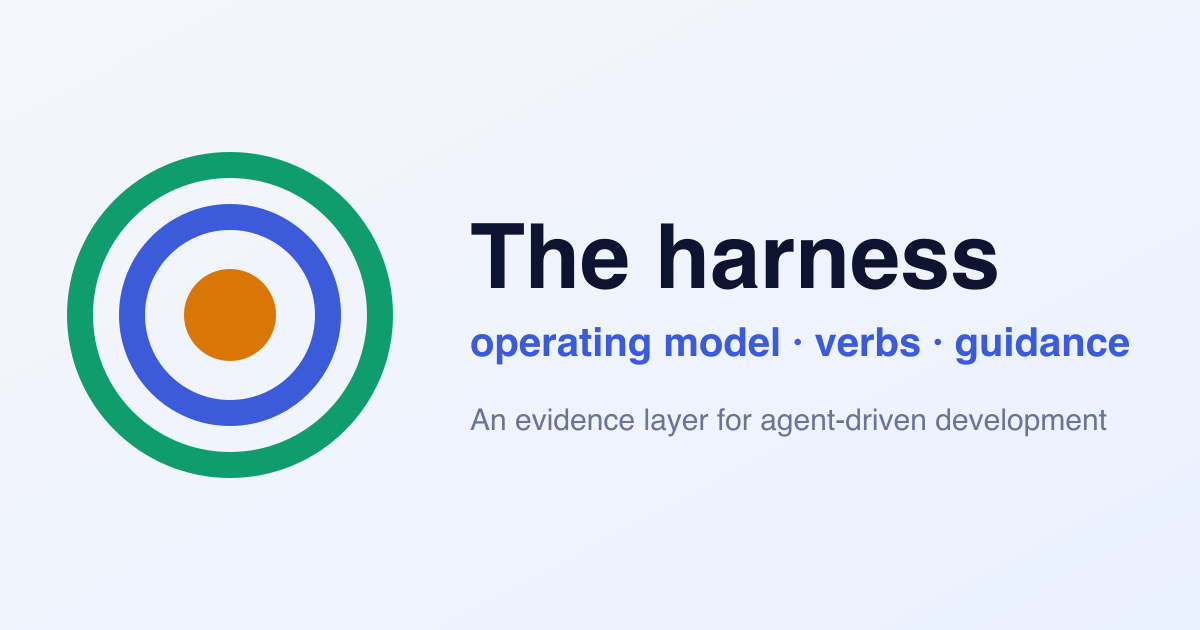
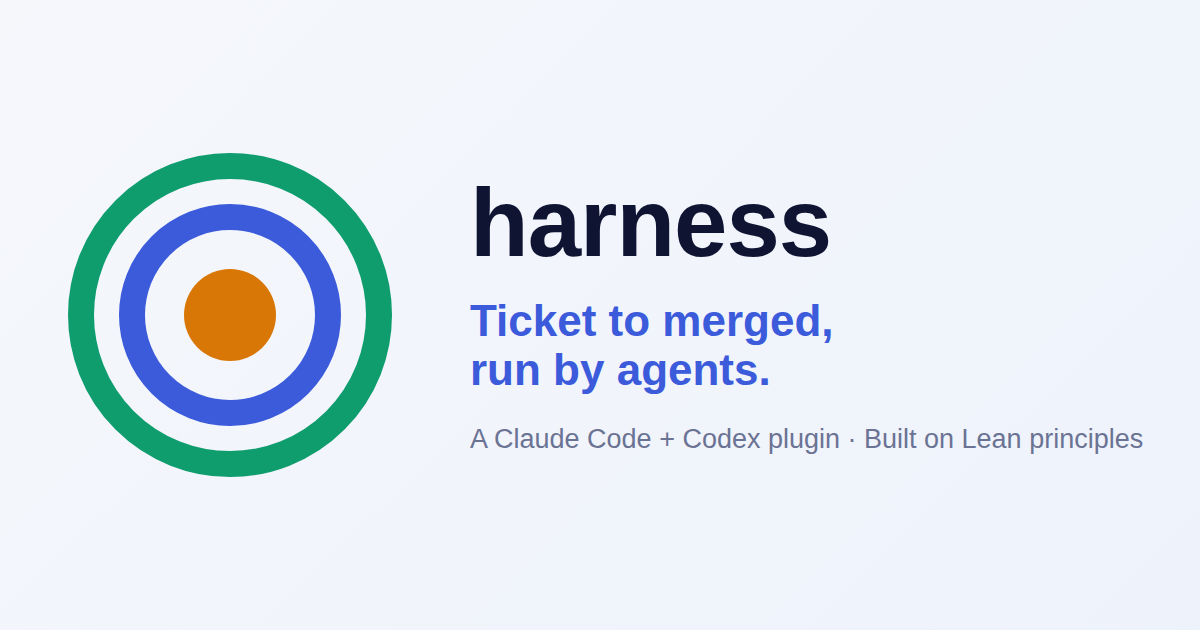
docs(page): align the landing page and manifests with the delivery loop
The page leads with the loop (spec and build, independent review, gated
merge) and the spine that governs it, labels where each host's install
commands run, and describes hydration as it now behaves. The social card,
both plugin manifests, the marketplace entry, pyproject and CONTRIBUTING
drop the retired evidence-layer framing for the same description as the
GitHub About. The README install section says the same about hosts.

Claude-Session: https://claude.ai/code/session_01BFqq6DT9QtGyutTCXrsEoj

diff --git a/docs/index.html b/docs/index.html
@@ -3,18 +3,18 @@
 <head>
 <meta charset="utf-8" />
 <meta name="viewport" content="width=device-width, initial-scale=1" />
-<title>harness — a spec-driven development process, shipped as native plugins for Claude Code and Codex</title>
-<meta name="description" content="harness: a spec-driven development process for agent-driven repos, shipped as native plugins for Claude Code and Codex. Lifecycle workflows, skill packages, agent roles, and the guards that keep a build honest." />
+<title>harness — ticket to merged, run by agents</title>
+<meta name="description" content="A Claude Code and Codex plugin that runs your repo&#39;s delivery loop with agents: ticket to spec, test-first build, independent review, gated merge — on demand or unattended. Built on Lean principles." />
 <link rel="icon" type="image/png" sizes="32x32" href="favicon.png" />
 <link rel="apple-touch-icon" href="apple-touch-icon.png" />
 <meta property="og:type" content="website" />
 <meta property="og:url" content="https://sluengen.github.io/harness/" />
-<meta property="og:title" content="harness — native plugins for Claude Code and Codex" />
-<meta property="og:description" content="Let the agent do the judgement work; make the repo own the evidence. Lifecycle workflows, portable skills, agent roles, and hooks that refuse." />
+<meta property="og:title" content="harness — ticket to merged, run by agents" />
+<meta property="og:description" content="A Claude Code and Codex plugin that runs your repo&#39;s delivery loop with agents. Built on Lean principles." />
 <meta property="og:image" content="https://sluengen.github.io/harness/og-card.png" />
 <meta name="twitter:card" content="summary_large_image" />
-<meta name="twitter:title" content="harness — native plugins for Claude Code and Codex" />
-<meta name="twitter:description" content="Let the agent do the judgement work; make the repo own the evidence. Lifecycle workflows, portable skills, agent roles, and hooks that refuse." />
+<meta name="twitter:title" content="harness — ticket to merged, run by agents" />
+<meta name="twitter:description" content="A Claude Code and Codex plugin that runs your repo&#39;s delivery loop with agents. Built on Lean principles." />
 <meta name="twitter:image" content="https://sluengen.github.io/harness/og-card.png" />
 <style>
   :root{
@@ -98,7 +98,7 @@
     background:var(--product); color:#fff; font-weight:800; font-size:14px; margin-bottom:12px}
   .step h3{margin:0 0 8px; font-size:16px; letter-spacing:-.01em}
   .step pre{margin:0 0 10px; overflow-x:auto; background:#f2f3fa; border:1px solid var(--line);
-    border-radius:10px; padding:10px 12px}
+    border-radius:10px; padding:10px 12px; white-space:pre-wrap; overflow-wrap:anywhere}
   .step code, .step pre{font:600 12.5px/1.7 ui-monospace,SFMono-Regular,Menlo,Consolas,monospace; color:var(--ink)}
   .step p{margin:0; font-size:13.5px; color:var(--ink-2)}
 
@@ -174,15 +174,14 @@
 
   <!-- ============ HERO ============ -->
   <header class="hero">
-    <p class="eyebrow">Claude Code + Codex</p>
-    <h1>A spec-driven development process<br /><span class="accent">for agent-driven repos.</span></h1>
+    <p class="eyebrow">A plugin for Claude Code + Codex</p>
+    <h1>Ticket to merged,<br /><span class="accent">run by agents.</span></h1>
     <p class="thesis">
-      <b>harness</b> is a development process shipped as native plugins for Claude Code and Codex:
-      lifecycle workflows, portable skills, agent roles, and enforcement hooks that make a
-      green gate the only path to a shared branch. Install it, initialize the repo, and the repo owns
-      its own contract from then on.
+      <b>harness</b> runs a repo's delivery loop with agents: ticket to spec, test-first build,
+      independent review, gated merge — on demand or unattended. Install the plugin, hydrate the
+      repo, and every agent session in it works the same process.
     </p>
-    <p class="creed">Let the agent do the judgement work; make the repo own the evidence.</p>
+    <p class="creed">Built on Lean principles: do less, build quality in, reduce waste, flow, stop the line, improve continuously.</p>
     <ul class="counts">
       <li><b>9</b> workflows</li>
       <li><b>17</b> skills</li>
@@ -192,37 +191,80 @@
     </ul>
   </header>
 
-  <!-- ============ WHAT THE REPO OWNS ============ -->
-  <section class="section" id="owns">
-    <h2>What the harness owns</h2>
+  <!-- ============ WHAT IT DOES ============ -->
+  <section class="section" id="loop">
+    <h2>What it does</h2>
     <p class="lede">
-      An AI agent does everything that needs judgement — the design, the code, the fixes, the answer to a
-      review finding. The harness owns only the parts that must not depend on an agent remembering them.
+      The agent does the judgement work — the design, the code, the answer to a review finding. The
+      plugin gives that work one loop, and every stage ends on a pass/fail signal the agent can act on.
     </p>
     <div class="grid3">
-      <article class="card card--build">
-        <h3>One verification gate</h3>
-        <p>
-          The repo's verify command decides green, and the builder who ran it and read its output is
-          what carries the claim. Green over those exact bytes is the only evidence a completion claim
-          may cite; one more edit invalidates it.
-        </p>
-      </article>
       <article class="card card--product">
-        <h3>The spine</h3>
+        <h3>Spec, then build</h3>
         <p>
-          A repo-owned <code>AGENTS.md</code> carries the five principles, the laws derived from
-          them, and the lifecycle contract — always loaded, never optional. <code>CLAUDE.md</code>
-          imports it on its first line and adds that host's deltas, seeded once by
-          <code>/harness:hydrate</code> and repo-owned after — and the repo's configuration is
-          <code>harness.yaml</code>. Skills carry the depth and load by task.
+          <code>/capture</code> files a decided change as a ticket with its change spec and acceptance
+          criteria; <code>/propose</code> works an undecided one to a decision first. <code>/build</code>
+          takes the ticket onto its own branch in its own worktree, locks the tests, and builds against
+          them test-first.
         </p>
       </article>
       <article class="card card--strategy">
-        <h3>Builder ≠ recorder</h3>
+        <h3>Independent review</h3>
         <p>
-          The agent that promises delivery is never the one that records it. The reviewer writes the
-          as-built record from the diff, which is what keeps that record honest.
+          A separate agent in a fresh context reviews the diff against the spec and runs the gate
+          itself. It returns <b>PASS</b>, <b>FAIL</b> or <b>DEFER</b>, and on PASS it — never the
+          builder — writes the as-built record of what shipped.
+        </p>
+      </article>
+      <article class="card card--build">
+        <h3>Gated merge</h3>
+        <p>
+          <code>/promote</code> rebases onto the integration branch, runs the gate again over the exact
+          tree that will land, pushes, and closes the ticket. The same command moves completed work
+          along the repo's release branches.
+        </p>
+      </article>
+    </div>
+    <p class="lede" style="margin-top:20px">
+      <code>/routine</code> runs the loop unattended: it picks the next ready ticket, builds it and
+      lands it, and holds the ticket for a person rather than push past a red gate or a review that
+      will not converge. Every build ends with a short reflection filed to an improvement ledger;
+      <code>/assess</code> runs periodic health checks and <code>/drain</code> clears what has
+      accumulated.
+    </p>
+  </section>
+
+  <!-- ============ HOW IT DECIDES ============ -->
+  <section class="section" id="spine">
+    <h2>How it decides</h2>
+    <p class="lede">
+      Hydration writes the process into the repo as the spine — <code>AGENTS.md</code>, loaded in every
+      session. <code>CLAUDE.md</code> imports it and adds that host's deltas, and the repo's commands,
+      branches and tracker live in <code>harness.yaml</code>.
+    </p>
+    <div class="grid3">
+      <article class="card card--product">
+        <h3>An operating context</h3>
+        <p>
+          The stage the repo is at and the risk it accepts, stated once so every rule is read against
+          it. A pre-user repo accepts a defect a revert fixes in an hour; it never accepts losing user
+          data, leaking a credential or moving money wrongly.
+        </p>
+      </article>
+      <article class="card card--strategy">
+        <h3>Six principles, seven laws</h3>
+        <p>
+          Lean, applied to agent-run repos, each principle stating what it refuses — with <b>do less</b>
+          overriding the rest. The laws are the per-change obligations derived from them: no claim of
+          done without gate output read this session, and no editing a test while building against it.
+        </p>
+      </article>
+      <article class="card card--quality">
+        <h3>Lanes and holds</h3>
+        <p>
+          Three assurance lanes — fix, change, feature — so a one-line fix and a contract change are not
+          weighed the same. Work that reaches user data, credentials or money stops and waits for a
+          person, and a ticket held for a person is never picked up by the unattended loop.
         </p>
       </article>
     </div>
@@ -232,38 +274,39 @@
   <section class="section" id="install">
     <h2>How a repo adopts it</h2>
     <p class="lede">
-      The guidance ships from this repo through native marketplaces for both hosts. Three steps, then
-      the process is live in every session.
+      This repo is the plugin marketplace for both hosts. In Claude Code the install steps are slash
+      commands typed in a session; in Codex they are shell commands run in your terminal.
     </p>
     <div class="install">
       <div class="step">
         <span class="step__n">1</span>
         <h3>Add the marketplace</h3>
-        <pre>Claude: /plugin marketplace add sluengen/harness
-Codex: codex plugin marketplace add sluengen/harness</pre>
+        <pre># Claude Code, in a session
+/plugin marketplace add sluengen/harness
+# Codex, in your terminal
+codex plugin marketplace add sluengen/harness</pre>
         <p>Points either host at this repository as a plugin source.</p>
       </div>
       <div class="step">
         <span class="step__n">2</span>
         <h3>Install the plugin</h3>
-        <pre>Claude: /plugin install harness@harness
-Codex: codex plugin add harness@harness</pre>
+        <pre># Claude Code, in a session
+/plugin install harness@harness
+# Codex, in your terminal
+codex plugin add harness@harness</pre>
         <p>Brings the host-native workflows, skills, roles, and hooks into your sessions.</p>
       </div>
       <div class="step">
         <span class="step__n">3</span>
         <h3>Hydrate the repo</h3>
-        <pre>Claude: /harness:hydrate
-Codex: ask to hydrate Harness</pre>
+        <pre># Claude Code, in a session
+/harness:hydrate
+# Codex, in a session
+ask to hydrate Harness</pre>
         <p>
-          Interviews for the repo's values and writes the files that must be repo-owned:
-          <code>harness.yaml</code>, the spine (<code>AGENTS.md</code>) and the
-          <code>CLAUDE.md</code> importing it, the path-scoped rules, Codex role adapters, the specs
-          scaffold and the infrastructure record. It writes no gate: where there is none yet it says
-          what the gate must do and leaves the bytes to the repo, because a gate is what every later
-          claim of green is read off. After a plugin update, refresh migrates the configuration into
-          <code>harness.yaml</code> as a verbatim move and regenerates the marked spine block, without
-          replacing repo-owned prose.
+          Writes the repo-owned files — <code>harness.yaml</code>, the spine, rules, role adapters and
+          the specs scaffold — but never a gate: that stays the repo's own. Run it again after a
+          plugin update; it refreshes the plugin-marked blocks and leaves repo-owned files alone.
         </p>
       </div>
     </div>
@@ -285,7 +328,7 @@ Codex: ask to hydrate Harness</pre>
           worktree, through the same gate. Anything that changes documented behaviour, spans commits,
           or needs independent review becomes a ticket instead.
         </p>
-        <ol class="steps"><li><span>branch</span></li><li><span>build</span></li><li><span>gate</span></li><li><span>ship</span></li></ol>
+        <ol class="steps"><li><span>branch</span></li><li><span>build</span></li><li><span>gate</span></li><li><span>land</span></li></ol>
       </article>
       <article class="lane lane--ticket">
         <h3>A ticket</h3>
@@ -295,7 +338,7 @@ Codex: ask to hydrate Harness</pre>
           second lands it. The reviewer is a separate agent in a fresh context; its verdict covers the
           tree it read, and a second gate over the tree that lands is what licenses the push.
         </p>
-        <ol class="steps"><li><span>spec</span></li><li><span>build</span></li><li><span>gate</span></li><li><span>review</span></li><li><span>ship</span></li></ol>
+        <ol class="steps"><li><span>spec</span></li><li><span>build</span></li><li><span>review</span></li><li><span>gate</span></li><li><span>land</span></li></ol>
       </article>
       <article class="lane lane--proposal">
         <h3>A proposal</h3>
@@ -347,20 +390,20 @@ Codex: ask to hydrate Harness</pre>
     <h2>What the plugin installs</h2>
     <p class="lede">
       The whole surface, as the repository carries it. Both hosts read the same
-      <code>skills/</code> — the lifecycle workflows and the craft skills behind them — and hooks
-      enforce the gate.
+      <code>skills/</code> — the lifecycle workflows and the craft skills behind them — and four hooks
+      sit behind them as a backstop.
     </p>
 
     <div class="grid2">
       <article class="card inv inv--commands">
         <h3>Workflows <span class="n">9</span></h3>
-        <p>The entry points, on both hosts. Each ships once, as a skill; three are operator-triggered only, and <code>/routine</code>, <code>/build</code>, <code>/review</code>, <code>/drain</code>, <code>/assess</code> and <code>/promote</code> stay model-invocable because each answers to a caller that is not a human at a prompt.</p>
+        <p>The entry points, on both hosts. Each ships once, as a skill; three are operator-triggered only, and <code>/routine</code>, <code>/build</code>, <code>/review</code>, <code>/drain</code>, <code>/assess</code> and <code>/promote</code> stay model-invocable because each answers to a caller that is not a human at a prompt. In Claude Code each runs as <code>/harness:&lt;name&gt;</code>; in Codex, ask for it by name.</p>
         <ul class="units">
           <li class="unit" data-unit="skill:build"><code>/build</code><span>Implement, verify and review a ticket, ending at PASS.</span></li>
-          <li class="unit" data-unit="skill:capture"><code>/capture</code><span>File an already-decided change straight to Todo.</span></li>
+          <li class="unit" data-unit="skill:capture"><code>/capture</code><span>File an already-decided change straight onto the queue.</span></li>
           <li class="unit" data-unit="skill:propose"><code>/propose</code><span>Work an idea before it becomes work; accepted proposals spawn tickets.</span></li>
           <li class="unit" data-unit="skill:review"><code>/review</code><span>Review the current branch, when a branch needs only that.</span></li>
-          <li class="unit" data-unit="skill:routine"><code>/routine</code><span>One unattended cycle: discover the next ticket, build it, ship it.</span></li>
+          <li class="unit" data-unit="skill:routine"><code>/routine</code><span>One unattended cycle: discover the next ticket, build it, land it.</span></li>
           <li class="unit" data-unit="skill:promote"><code>/promote</code><span>Land a reviewed branch, or move completed work toward release along the repo's role branches.</span></li>
           <li class="unit" data-unit="skill:drain"><code>/drain</code><span>Clear what has accumulated for the operator: held tickets, then the improvement ledger.</span></li>
           <li class="unit" data-unit="skill:assess"><code>/assess</code><span>Run a periodic whole-system health assessment.</span></li>
@@ -425,7 +468,7 @@ Codex: ask to hydrate Harness</pre>
         <h3>No runtime, nothing to install</h3>
         <p>
           There is no CLI and no service behind any of this. Python here is tooling only — the gate, the
-          token generator, the mutation instrument. Work moves
+          token generator, the mutation instrument — and the hooks run on Node. Work moves
           <code>dev → main</code>, and what lands on release is exactly the tree that was gated.
         </p>
       </article>

diff --git a/.claude/rules/design.md b/.claude/rules/design.md
@@ -45,10 +45,10 @@ here.
 
   | Token family | Domain it marks | Where it appears |
   |---|---|---|
-  | `--build` | the gate and its evidence | the gate panel, its stage list, the fix lane, the no-runtime card |
-  | `--product` | the guidance surface | the spine card, the install steps, the workflow and skill inventories, the ticket lane |
-  | `--strategy` | roles and deciding | the agents inventory, the proposal lane, the builder-≠-recorder card |
-  | `--quality` | enforcement and health | the hooks inventory, the refuses badge, the dogfood card |
+  | `--build` | the gate and its evidence | the gate panel, its stage list, the fix lane, the gated-merge card, the no-runtime card |
+  | `--product` | the guidance surface | the spec-and-build card, the operating-context card, the install steps, the workflow and skill inventories, the ticket lane |
+  | `--strategy` | roles and deciding | the agents inventory, the proposal lane, the independent-review card, the principles card |
+  | `--quality` | enforcement and health | the hooks inventory, the refuses badge, the lanes-and-holds card, the dogfood card |
 
   A new surface introducing a fifth "brand" hue unrelated to a domain is a finding.
   The token *names* are inherited from the retired Four Loops model the page presented

diff --git a/README.md b/README.md
@@ -103,22 +103,23 @@ drives `review`, and `assess` drives `drain`.
 
 This repo is the marketplace for both hosts.
 
-**Claude Code**
+**Claude Code** — slash commands, typed inside a Claude Code session:
 
 ```
 /plugin marketplace add sluengen/harness
 /plugin install harness@harness
 ```
 
-**Codex**
+**Codex** — shell commands, run in your terminal:
 
 ```bash
 codex plugin marketplace add sluengen/harness
 codex plugin add harness@harness
 ```
 
-Then hydrate the repo you want to run the process in: `/harness:hydrate` in
-Claude Code, or ask Codex to hydrate Harness. Both hosts read the same workflow.
+Then, in the repo you want to run the process in, hydrate it from inside a
+session: type `/harness:hydrate` in Claude Code, or ask Codex to hydrate Harness.
+Both hosts read the same workflow.
 
 ### What hydration writes
 

diff --git a/CONTRIBUTING.md b/CONTRIBUTING.md
@@ -1,10 +1,10 @@
 # Contributing
 
 Thanks for your interest. First, the honest framing: **this is dogfood
-infrastructure.** The harness is a verification layer and a body of guidance that
-one maintainer runs on their own agent-driven development and publishes so others
-can read, learn from, and adapt it — not a turnkey product with a support
-commitment.
+infrastructure.** The harness is a plugin, a delivery process and the guidance
+behind it, that one maintainer runs on their own agent-driven development and
+publishes so others can read, learn from, and adapt it — not a turnkey product
+with a support commitment.
 
 ## Issues
 
